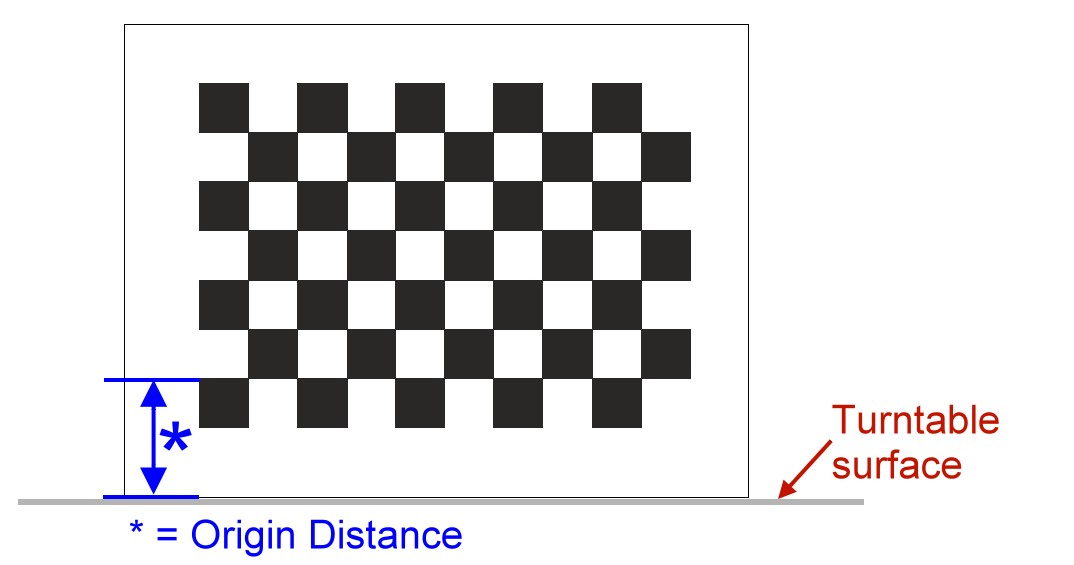
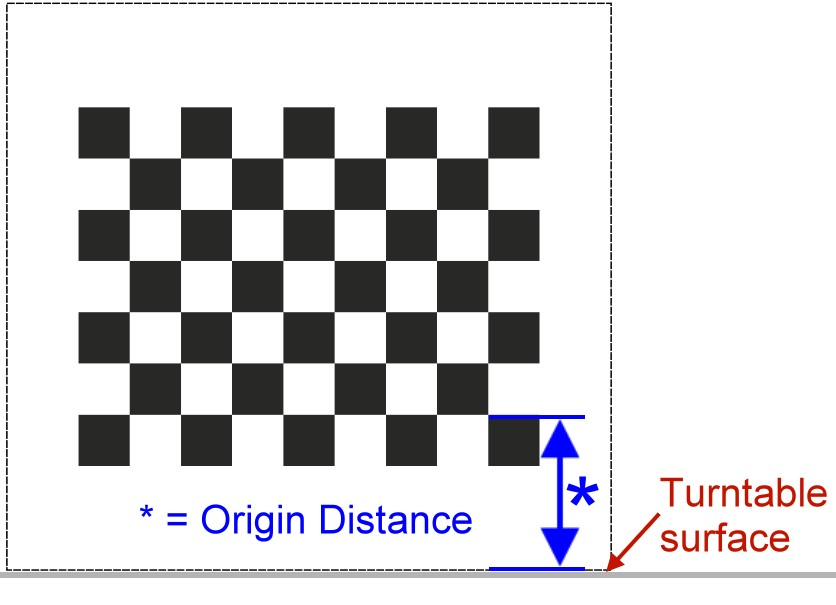
updated v0.4.1 docs

Changed region(s): [[0.0, 0.1204, 1.0, 0.9929], [0.0, 0.0, 0.7464, 0.0301]]

diff --git a/software/index.html b/software/index.html
@@ -299,8 +299,8 @@ updates with the following command.</p>
 <ul>
 <li>By default the FabScanPi server binds to all interfaces on port 8080. Pointing your browser to http://ip-of-your-raspberry-pi:8080 will open the user interface. </li>
 </ul>
-<p>If your FabScanPi has access to the internet an information window with the latest project news will pop-up. You can close it by left-clicking on the black x in the upper right corner of the grey info window.</p>
-<p><img alt="main_menu" src="../images/Manual_0.jpg" /></p>
+<p>If your FabScanPi has access to the internet an information window with the latest project news will pop-up. You can close it by left-clicking on the black x in the upper right corner of the grey info window. If there is a new software version available you will see a note in the upper left corner:</p>
+<p><img alt="main_menu" src="../images/Manual_UpdateAvailable_1.jpg" /></p>
 <p><strong>First start-up<a name="firststartup-"></a></strong></p>
 <p>Before you proceed with the calibration and your first scan please check a few things to ensure your FabScanPi is working properly:</p>
 <ul>
@@ -323,9 +323,10 @@ NOTICE: The second laser in the image is not supported by the software yet. This
 <p>Note: Please check if your print of the calibration sheet has the correct scale. Each black square should have the same side length as stated on the calibration sheet (e.g.11 mm (1,1 cm). If the size is not correct please correct the parameter "pattern square size" in the configuration file. </p>
 <p>You can find all details in the chapter "<a href="#editConfigFile">How to Edit the Config File</a>".</p>
 <p>Place the calibration sheet on the turntable facing the camera.</p>
-<p>IMPORTANT: Make sure that in the upper left corner is a black square as you can see on the picture below. If the sheet is placed wrong the calibration will generate incorrect values or may fail.</p>
-<p><img alt="main_menu" src="../images/calibration_sheet_position.jpg" /></p>
+<p><img alt="main_menu" src="../images/calibration_start_position.jpg" /></p>
 <p>Please close the box to avoid external light sources to impact the calibration process. Start  your browser and call http://ip-of-your-raspberry-pi:8080 which will open the user interface. </p>
+<p>When you start your FabScanPi for the first time you will see an information in the upper left corner that you have to perform a calibration.</p>
+<p><img alt="main_menu" src="../images/Manual_NoCalibration_1.jpg" /></p>
 <p>Start the calibration procedure by clicking on the gun sight icon in the very upper left corner.</p>
 <p><img alt="main_menu" src="../images/Manual_1.jpg" /></p>
 <p>An information "Calibration started" will be displayed in the upper left corner.</p>
@@ -530,6 +531,7 @@ you don't know what you are doing, it is a good decision to keep this section un
 
 <p><strong>Scanner Calibration</strong></p>
 <p>In this section you can change the parameters of the configuration sheet. If your printout of the calibration sheet has not the exact scale you can adjust the parameters here instead of scaling the print. </p>
+<p>NOTE: There is a new " 8x6 Calibration Pattern". If you are still using the old 9x6 Pattern you'll need to modify the columns value:</p>
 <p>"scanner_type": "laserscanner",
 "calibration": {</p>
 <pre><code>&quot;weight_matrix&quot;: [],
@@ -537,8 +539,8 @@ you don't know what you are doing, it is a good decision to keep this section un
 &quot;pattern&quot;: {
     &quot;square_size&quot;: 11,
     &quot;rows&quot;: 6,
-    &quot;columns&quot;: 9,
-    &quot;origin_distance&quot;: 29
+    &quot;columns&quot;: 8,
+    &quot;origin_distance&quot;: 35
 }
 </code></pre>
 
@@ -547,7 +549,7 @@ you don't know what you are doing, it is a good decision to keep this section un
 </ul>
 <p><img alt="PuTTY_Menu" src="../images/calibration_sheet_info_2.png" /></p>
 <ul>
-<li>Rows and Columns are the connection points of the black squares. The correct number is 9 for columns and 6 for rows :</li>
+<li>Rows and Columns are the connection points of the black squares. The correct number is 8 for columns and 6 for rows :</li>
 </ul>
 <p><img alt="PuTTY_Menu" src="../images/calibration_sheet_info_1.png" /></p>
 <ul>

diff --git a/index.html b/index.html
@@ -245,5 +245,5 @@ http://[ ip-address-of-your-raspberry-pi ]</p>
 
 <!--
 MkDocs version : 0.16.1
-Build Date UTC : 2017-07-07 14:07:47
+Build Date UTC : 2017-07-09 18:45:04
 -->
